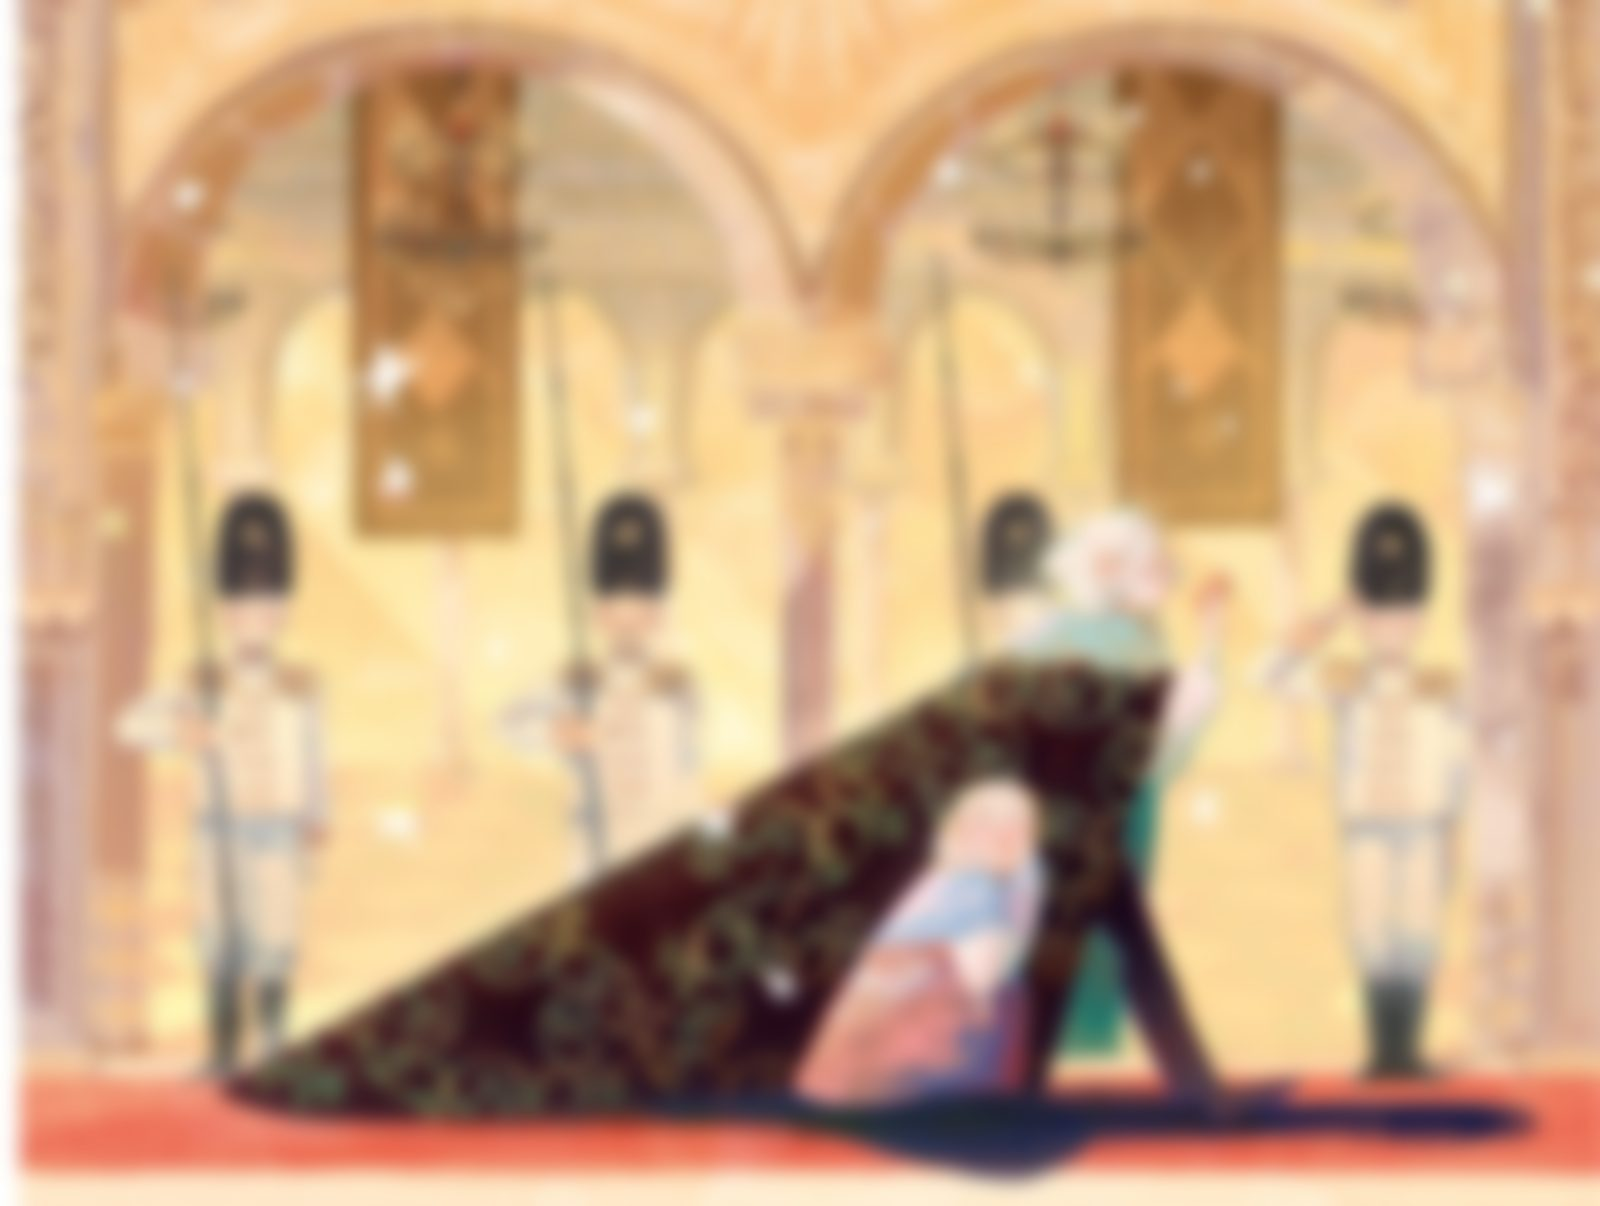
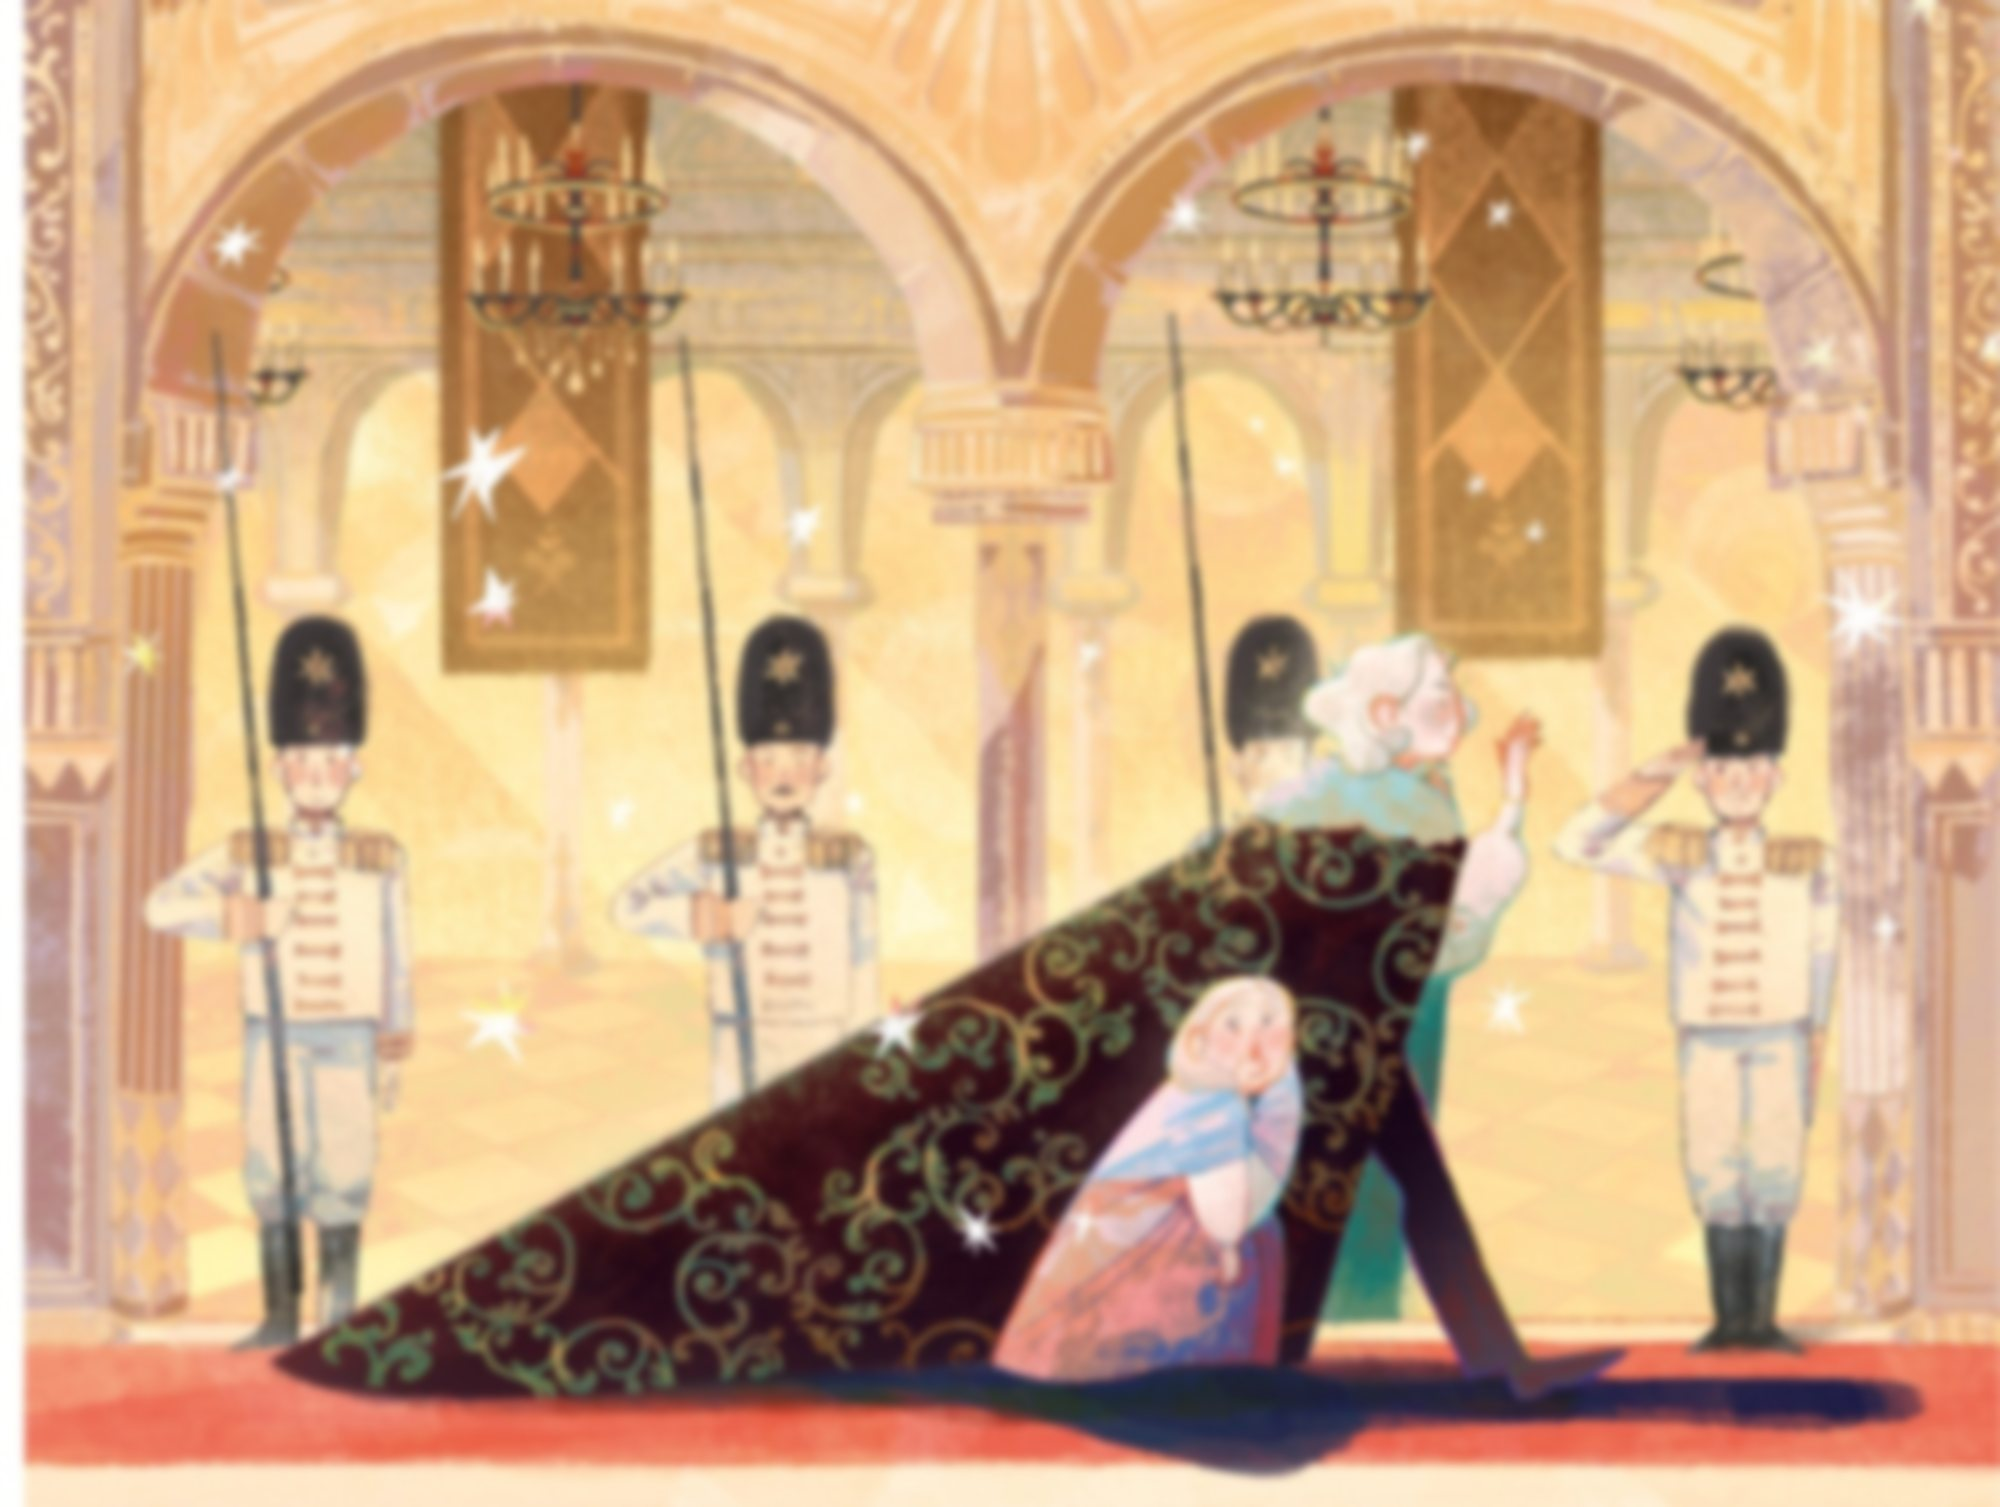
Фон размыт слабее, без картины в пустом дневнике

diff --git a/js/app.js b/js/app.js
@@ -715,7 +715,7 @@
     const list = store.get("journal", []);
     const box = $("#journalView");
     box.innerHTML = `<div class="on-wall"><h2 class="gilt-text">Дневник раскладов</h2><p class="hint">Хранится только в этом браузере.</p></div>`;
-    if (!list.length) { box.append(h(`<div class="empty-state">${window.ART.framed("annunciation")}<p>Пока пусто (｡•́︿•̀｡) Сохраните расклад кнопкой «Сохранить в дневник».</p></div>`)); return; }
+    if (!list.length) { box.append(h(`<div class="empty-state"><p>Пока пусто (｡•́︿•̀｡) Сохраните расклад кнопкой «Сохранить в дневник».</p></div>`)); return; }
     list.forEach((j, idx) => {
       const sp = spreadById(j.spread);
       const d = DECKS.find(x => x.id === j.deck);
